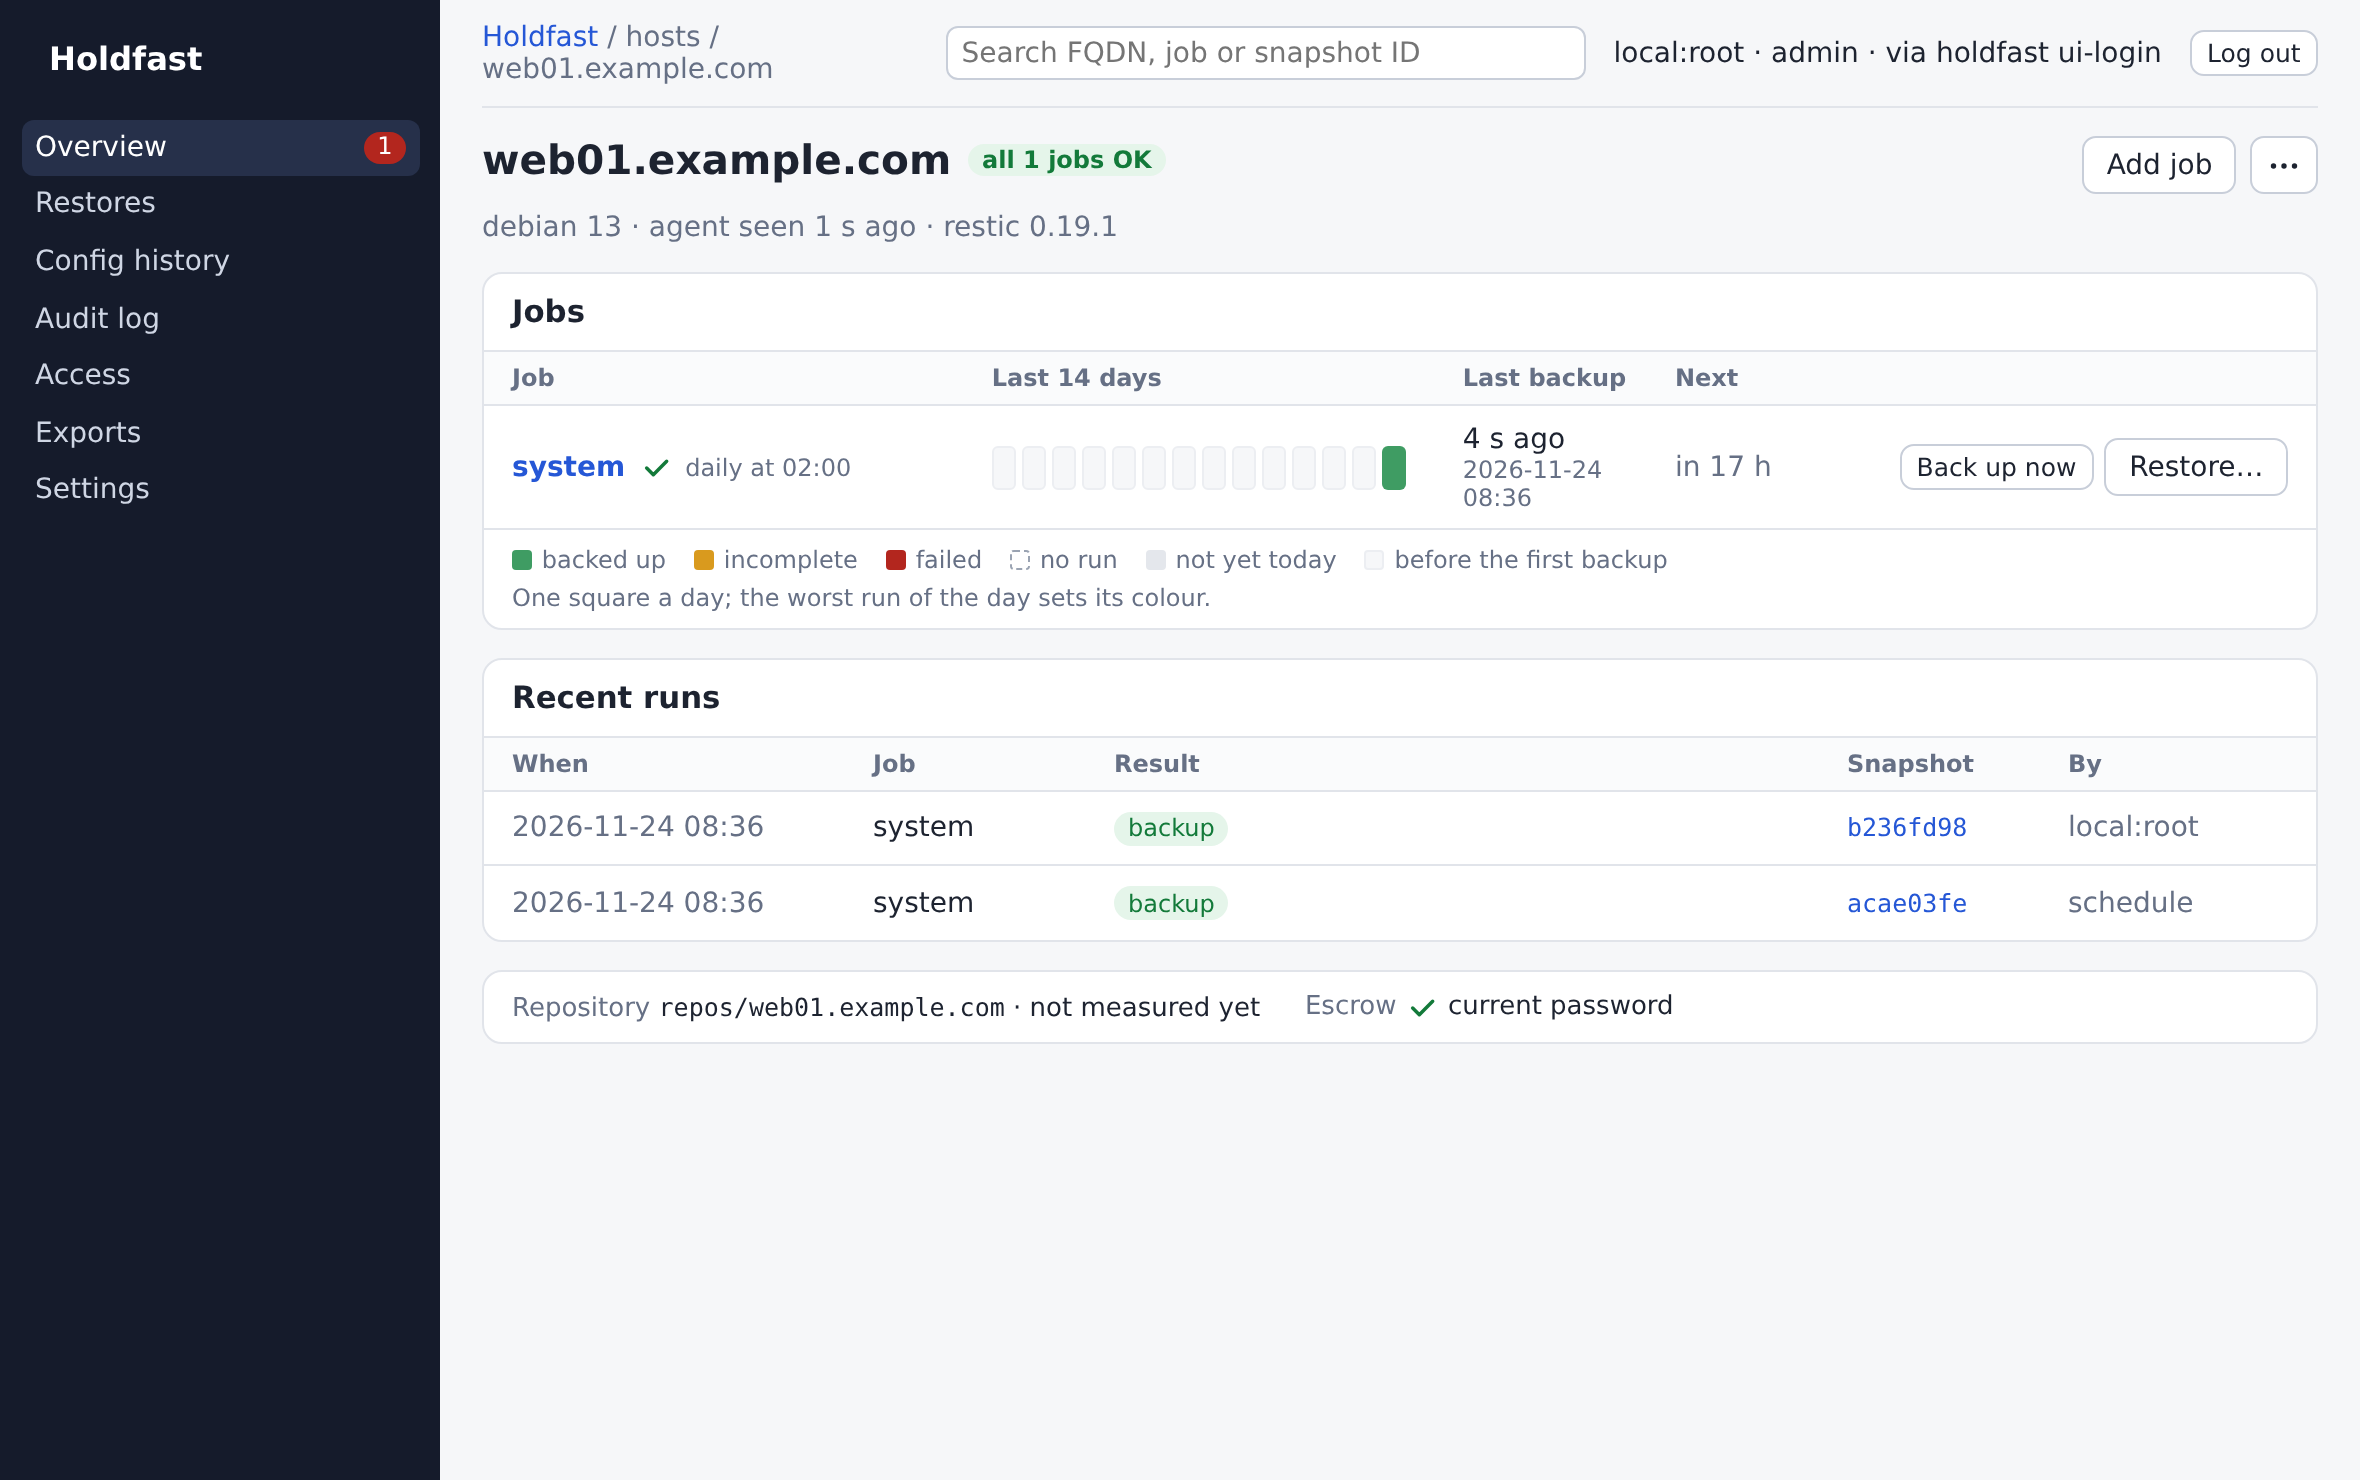
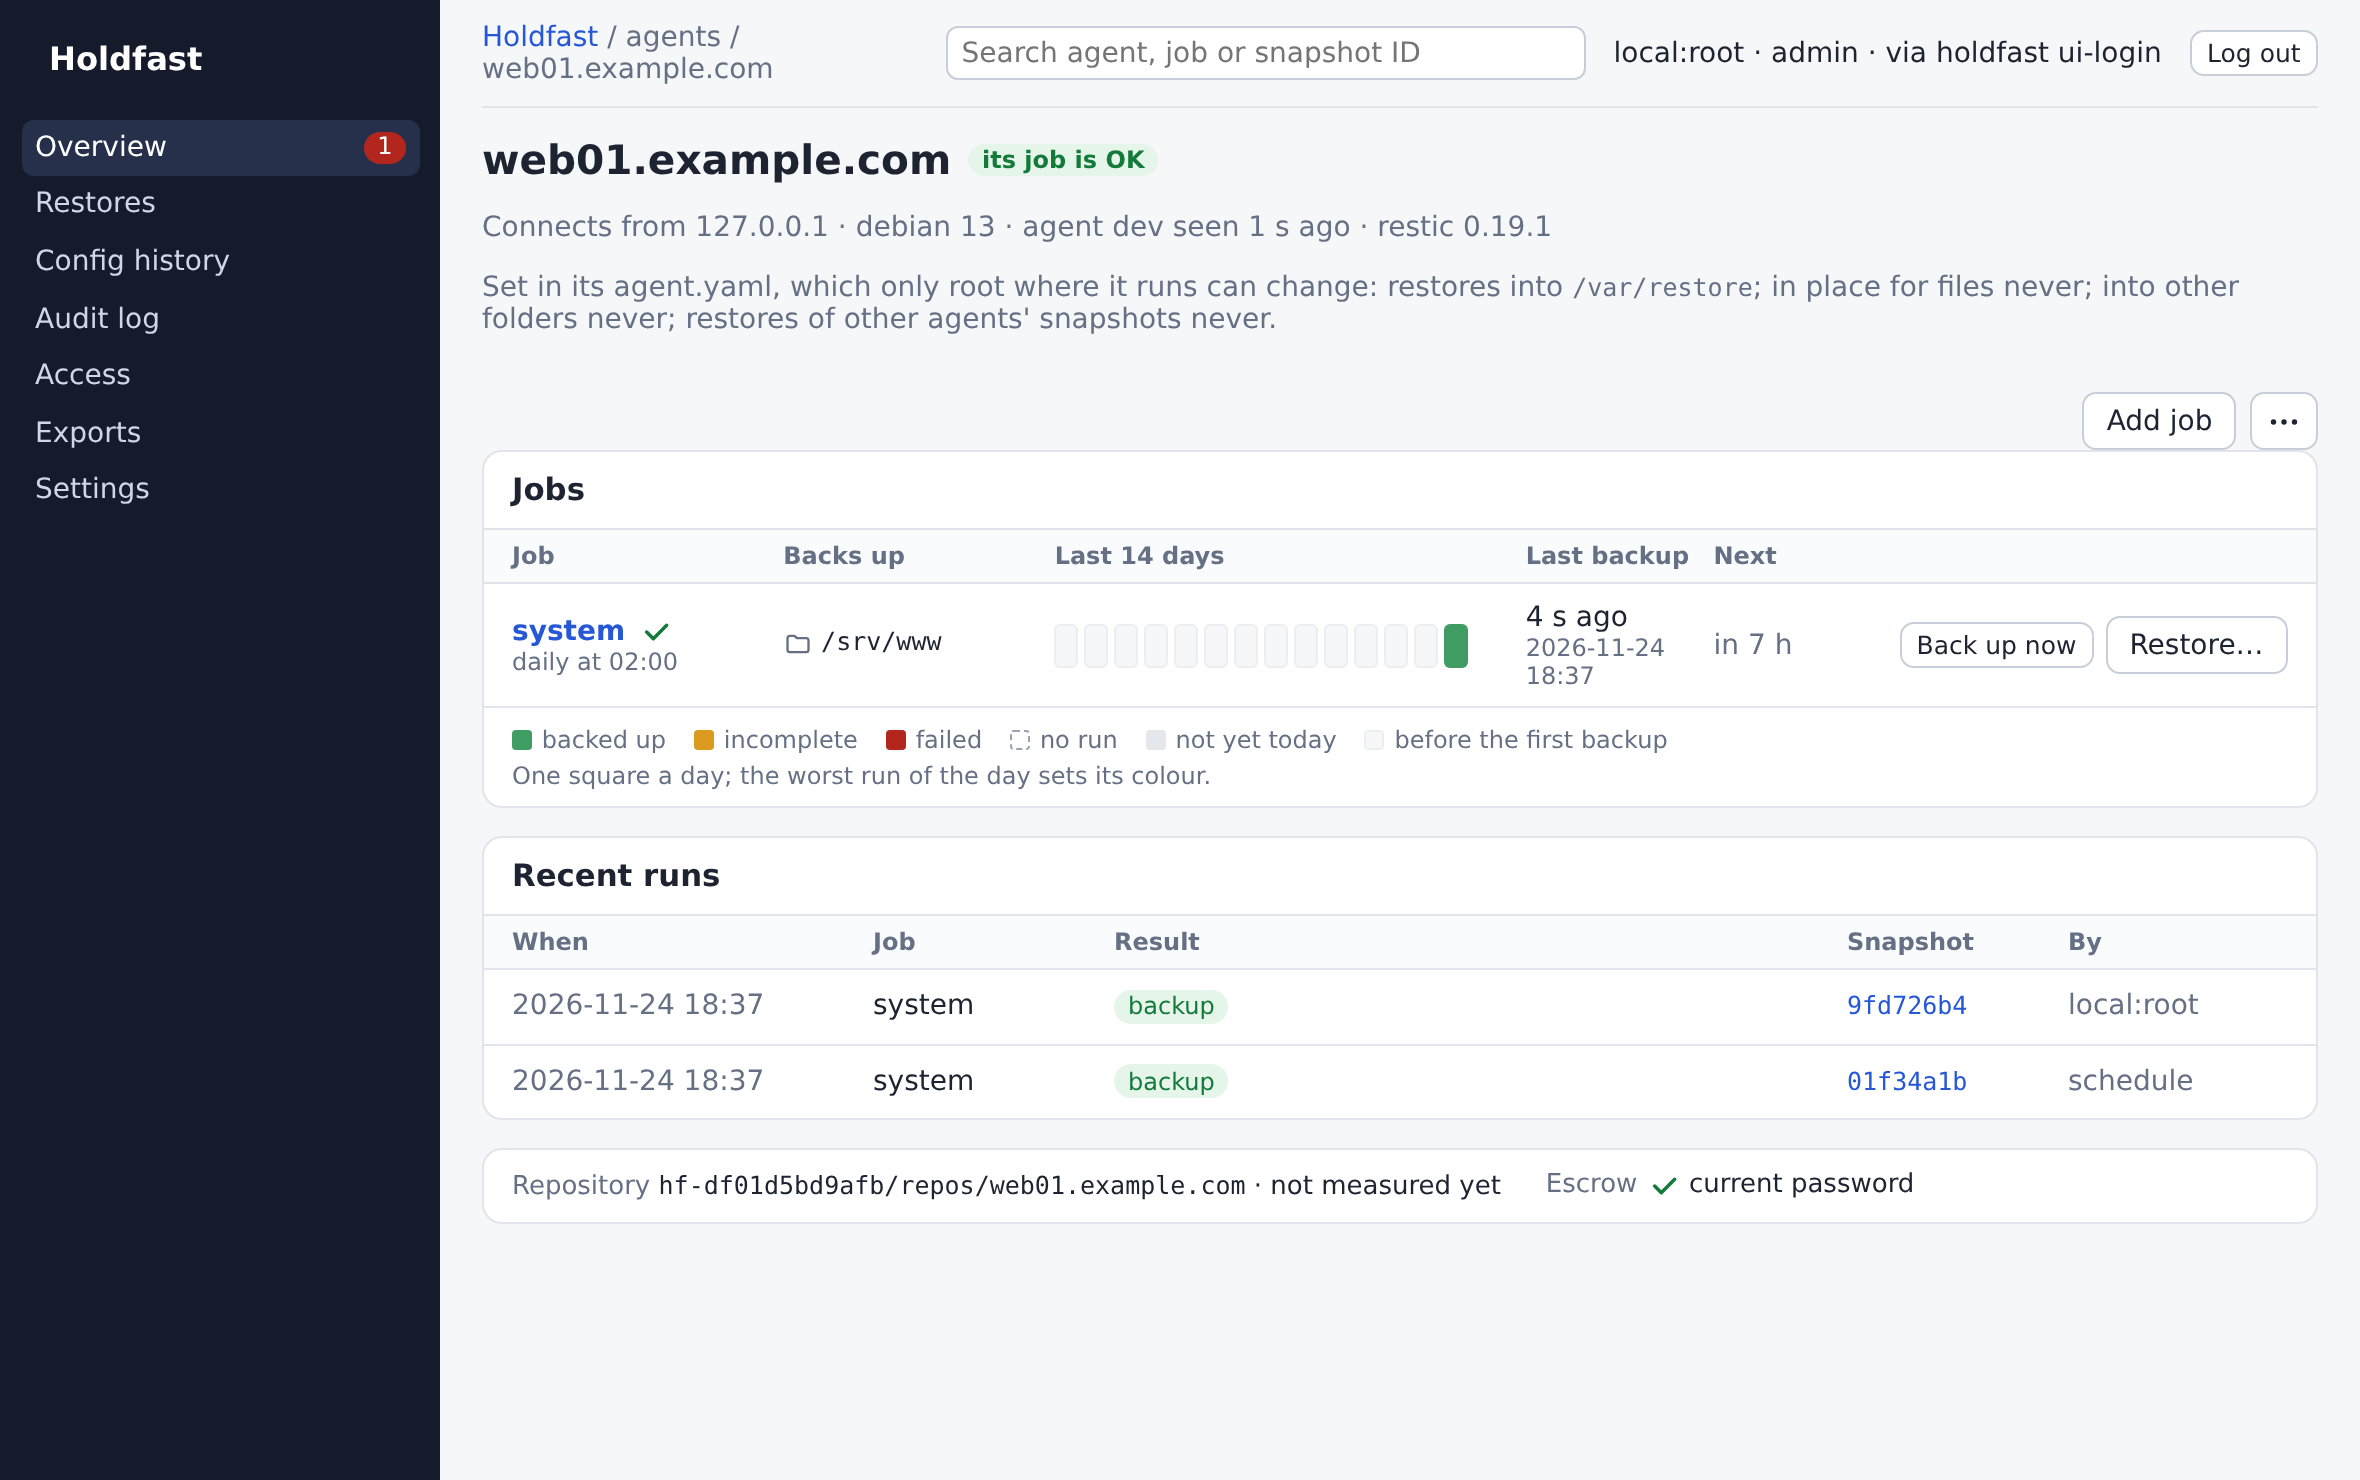
Test connection joins a test not answered yet; who deleted a snapshot and why; UI fixes and new screenshots
- Test connection while a test of the same connection, asked in the last 5 minutes, is still queued or running (such as
  the one saving the connection queued) returns that test, rather than queueing another whose result would hide it
  from whoever waits (found by the full e2e run).
- A snapshot keeps who asked to delete it and the reason (deletion_requested_by, deletion_reason), and shows when
  Holdfast deleted it on request (deleted_on_request_at); the pending list carries the reason. The UI shows them.
- holdfast job set without a job ID names a database's job after it in lower case, with _ and other characters a job ID
  cannot hold as -, in the CLI and the UI alike; the job form's CLI line has --connection, --database and --globals.
- The job page's month labels no longer overlap; the agent page's jobs table fits a laptop's width; "its job is OK".
- lab/ scripts use holdfast agent and --name; e2e tests give deletions a reason and follow the UI's new words.
- website/img: new screenshots from make screenshots; calendar.png, no longer used, removed.

diff --git a/internal/webui/static/pages/host.js b/internal/webui/static/pages/host.js
@@ -407,7 +407,7 @@ export function Host({ fqdn, reloadHosts, vault, settings }) {
     <div class="spread">
       <div style="min-width:0">
         <h1 class="row" style="gap:.6rem"><span class="wrap">${h.fqdn}</span>
-          ${probs.length === 0 ? html`<${Pill} kind="ok">all ${h.jobs.length} jobs OK<//>`
+          ${probs.length === 0 ? html`<${Pill} kind="ok">${h.jobs.length === 1 ? 'its job is OK' : `all ${h.jobs.length} jobs OK`}<//>`
             : html`<${Pill} kind=${errors ? 'error' : 'warning'}>${needy ? `${needy} ${needy === 1 ? 'job needs' : 'jobs need'} attention` : 'needs attention'}<//>`}</h1>
         <p class="muted">${vault ? `copied from primary · last copy ${h.copied_at ? fmtTime(h.copied_at) : 'none yet'}`
           : a ? html`${a.remote_addr ? `Connects from ${a.remote_addr} · ` : ''}${a.os_id} ${a.os_version} · agent ${a.agent_version} seen ${ago(a.last_seen_at)} · restic ${a.restic_version}${a.postgresql?.client ? ` · PostgreSQL client ${a.postgresql.client}` : ''}${h.in_sync ? '' : html` · <${Pill} kind="warning">runs revision ${a.applied_revision}, not ${h.desired_revision}<//>`}`
@@ -448,7 +448,7 @@ export function Host({ fqdn, reloadHosts, vault, settings }) {
       <div class="list-head"><h2 id="jobs-h">${vault ? 'Copied jobs' : 'Jobs'}</h2>
         ${days.error && html`<span class="muted">The last 14 days could not be read: ${days.error.message}</span>`}</div>
       ${h.jobs.length === 0 ? html`<p class="muted" style="padding:0 1rem 1rem">No job yet.${!vault && can(h, 'config.jobs') ? html` <a href=${link('agents', h.fqdn, 'configure')}>Add one</a>.` : ''}</p>` : html`
-      <div class="scrollx"><div style=${'min-width:' + (withOff ? 1160 : 1040) + 'px'}>
+      <div class="scrollx"><div style=${'min-width:' + (withOff ? 1000 : 880) + 'px'}>
         <div class="gt head" style=${'--cols:' + cols}><span>Job</span><span>Backs up</span><span>Last 14 days</span><span>Last backup</span><span>Next</span>${withOff && html`<span>Off-site</span>`}<span></span></div>
         ${h.jobs.map((j) => html`<${JobRow} key=${j.id} host=${h} job=${j} vault=${vault} cols=${cols} queued=${!!queued[j.id]} onRun=${() => run(j)}
           days=${days.data && days.data.jobs.find((x) => x.job_id === j.id)} cut=${(cuts.data || []).some((c) => c.fqdn === h.fqdn && c.job_id === j.id)} />`)}

diff --git a/internal/webui/static/pages/job.js b/internal/webui/static/pages/job.js
@@ -110,17 +110,22 @@ function RestorePoints({ h, j, pts, off, vault, siteA, siteB, days, events, relo
   const monthSel = (y, m) => { if (mayDelete) add(pts.filter((p) => { const d = new Date(p.time); return d.getFullYear() === y && d.getMonth() === m && deletable(p); }).map((p) => p.key)); };
   const items = [];
   const example = {};
-  let lastMonth = -1;
+  // The months' labels over their first weeks. The first column's month is often only a day or two of it: when the
+  // next month starts less than three columns later, a label's width, the first one goes, and the year moves on.
+  const labels = [];
+  allDays.forEach((d, i) => {
+    if (d.getDate() === 1 || i === 0) {
+      const mo = d.getMonth();
+      if (!labels.length || labels[labels.length - 1].mo !== mo) labels.push({ col: Math.floor(i / 7) + 2, mo, yr: d.getFullYear() });
+    }
+  });
+  if (labels.length > 1 && labels[1].col - labels[0].col < 3) labels.shift();
+  labels.forEach(({ col, mo, yr }, n) => {
+    items.push(html`<button type="button" class="ml" style=${`grid-row:1;grid-column:${col}`} disabled=${!mayDelete}
+      data-tip=${mayDelete ? `${MONTHS[mo]} ${yr}\nSelect every restore point of the month` : null} onClick=${() => monthSel(yr, mo)}>${MONTHS[mo]}${mo === 0 || n === 0 ? ' ' + yr : ''}</button>`);
+  });
   allDays.forEach((d, i) => {
     const t = d.getTime(), col = Math.floor(i / 7) + 2, row = (i % 7) + 2;
-    if (d.getDate() === 1 || i === 0) {
-      const mo = d.getMonth(), yr = d.getFullYear();
-      if (mo !== lastMonth) {
-        lastMonth = mo;
-        items.push(html`<button type="button" class="ml" style=${`grid-row:1;grid-column:${col}`} disabled=${!mayDelete}
-          data-tip=${mayDelete ? `${MONTHS[mo]} ${yr}\nSelect every restore point of the month` : null} onClick=${() => monthSel(yr, mo)}>${MONTHS[mo]}${mo === 0 || i === 0 ? ' ' + yr : ''}</button>`);
-      }
-    }
     const pos = `grid-row:${row};grid-column:${col}`;
     const ps = byDay.get(t) || [];
     const r = ran.get(t);

diff --git a/internal/server/postgresql.go b/internal/server/postgresql.go
@@ -291,7 +291,12 @@ func (s *Server) RemoveConnection(ctx context.Context, a Actor, fqdn, name, mess
 	return revNo, err
 }
 
-// TestConnection has the agent connect, as it would to back up, and report what it finds.
+// pgTestJoin is how recent a test of a connection still unanswered is joined by Test connection, rather than queueing
+// another one: the result of one would hide the other's from whoever waits for it.
+const pgTestJoin = 5 * time.Minute
+
+// TestConnection has the agent connect, as it would to back up, and report what it finds. A test of the connection
+// asked moments ago and not answered yet, such as the one saving it queued, is the test: its command is returned.
 func (s *Server) TestConnection(ctx context.Context, a Actor, fqdn, name string) (string, error) {
 	id := newID()
 	err := s.st.InTx(ctx, func(q *store.Q) error {
@@ -301,6 +306,13 @@ func (s *Server) TestConnection(ctx context.Context, a Actor, fqdn, name string)
 		}
 		if _, ok := head.Config.Hosts[fqdn].PostgreSQL[name]; !ok {
 			return fmt.Errorf("connection %s on %s: %w", name, fqdn, ErrNotFound)
+		}
+		now := s.now()
+		if open, err := q.UnfinishedPGTest(ctx, fqdn, name, now.Add(-pgTestJoin), now); err != nil {
+			return err
+		} else if open != "" {
+			id = open
+			return nil
 		}
 		if err := s.enqueuePGTest(ctx, q, a, fqdn, name, id); err != nil {
 			return err

diff --git a/internal/server/store/postgresql.go b/internal/server/store/postgresql.go
@@ -3,7 +3,10 @@ package store
 import (
 	"context"
 	"encoding/json"
+	"errors"
 	"time"
+
+	"github.com/jackc/pgx/v5"
 )
 
 /* ---------------- PostgreSQL connections' passwords (decision 055) ---------------- */
@@ -82,6 +85,20 @@ func (q *Q) LatestPGTests(ctx context.Context, fqdn string) (map[string]Event, e
 		}
 	}
 	return out, nil
+}
+
+// UnfinishedPGTest returns the newest test of a connection, asked since since, whose result has not come back yet:
+// queued, or running on the agent. "" if there is none.
+func (q *Q) UnfinishedPGTest(ctx context.Context, fqdn, connection string, since, now time.Time) (string, error) {
+	var id string
+	err := q.db.QueryRow(ctx, `SELECT c.id FROM commands c WHERE c.fqdn = $1 AND c.kind = 'postgresql_test' AND c.payload->>'connection' = $2
+		AND c.cancelled_at IS NULL AND (c.expires_at IS NULL OR c.expires_at > $4) AND c.created_at >= $3
+		AND NOT EXISTS (SELECT 1 FROM events e WHERE e.fqdn = c.fqdn AND e.command_id = c.id)
+		ORDER BY c.created_at DESC LIMIT 1`, fqdn, connection, since, now).Scan(&id)
+	if errors.Is(err, pgx.ErrNoRows) {
+		return "", nil
+	}
+	return id, err
 }
 
 // PGTestDetail decodes a test event's result, or returns nil.

diff --git a/test/e2e/retention_test.go b/test/e2e/retention_test.go
@@ -292,10 +292,10 @@ func TestRetentionCutWaitsSevenDays(t *testing.T) {
 	if p := e.pending(fqdn); len(p.Pending) != 0 {
 		t.Fatalf("cancelled: %+v", p)
 	}
-	if out, err := e.cliErr("snapshot", "delete", fqdn, victim[:12], "--now", "--confirm", "cut02"); err == nil || !strings.Contains(string(out), "cut01") {
+	if out, err := e.cliErr("snapshot", "delete", fqdn, victim[:12], "--now", "--confirm", "cut02", "--reason", "e2e"); err == nil || !strings.Contains(string(out), "cut01") {
 		t.Fatalf("Delete now with the wrong name: %v %s", err, out)
 	}
-	if run := e.run("snapshot", "delete", fqdn, victim[:12], "--now", "--confirm", "cut01"); run.Status != "success" || !slices.Equal(run.Forgotten, []string{victim}) || run.Pruned {
+	if run := e.run("snapshot", "delete", fqdn, victim[:12], "--now", "--confirm", "cut01", "--reason", "e2e"); run.Status != "success" || !slices.Equal(run.Forgotten, []string{victim}) || run.Pruned {
 		t.Fatalf("Delete now forgets at once and leaves the prune for later: %+v", run)
 	}
 
